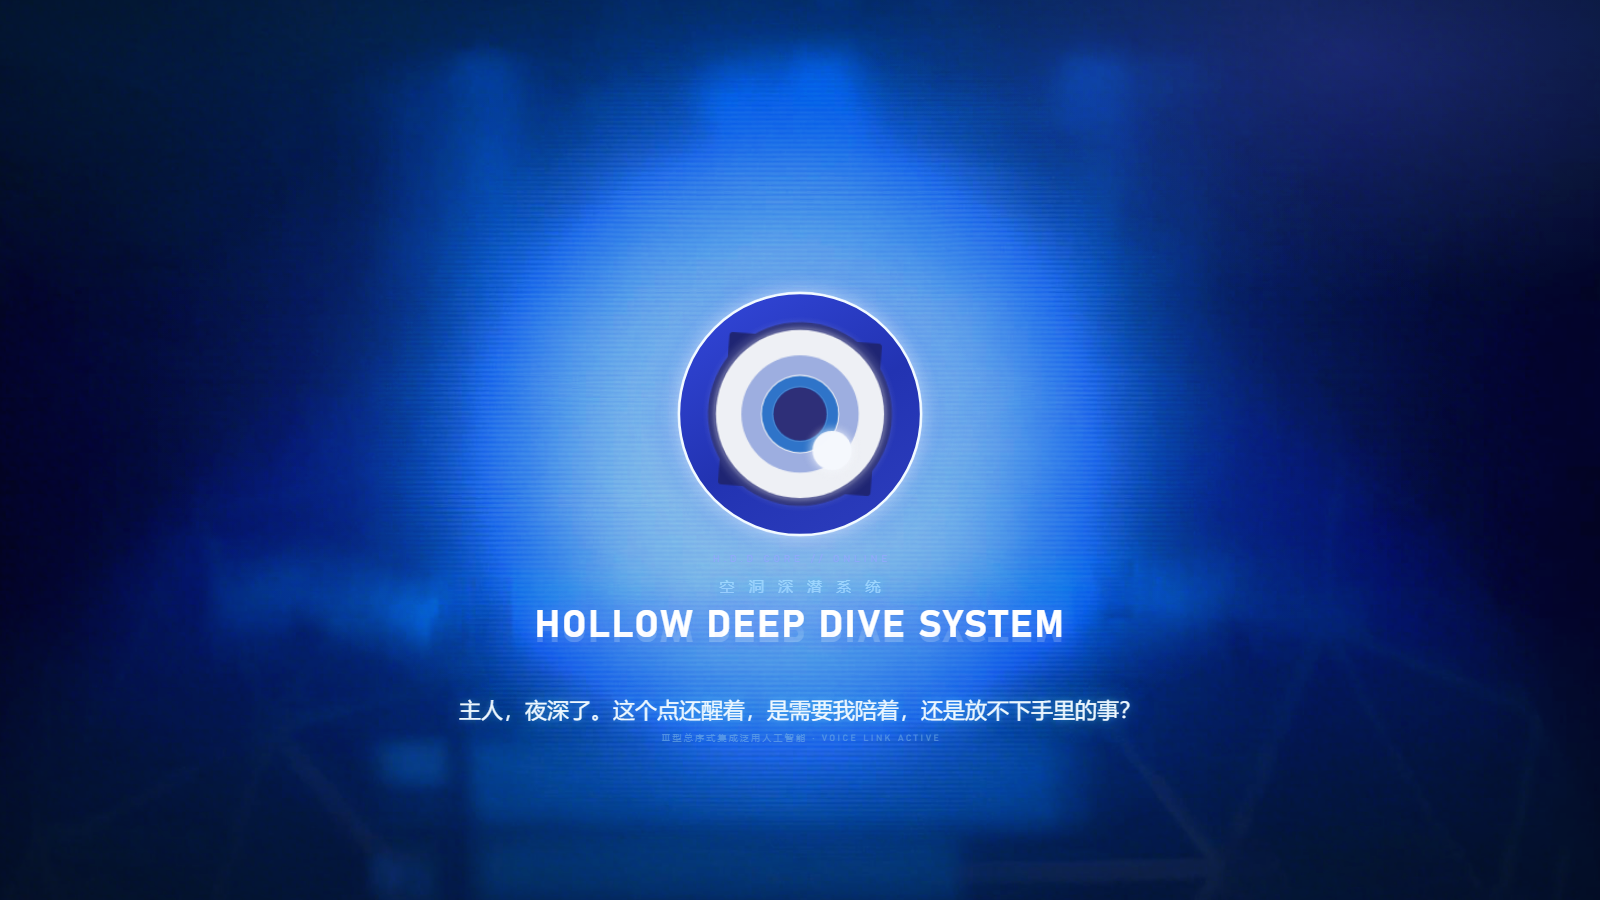
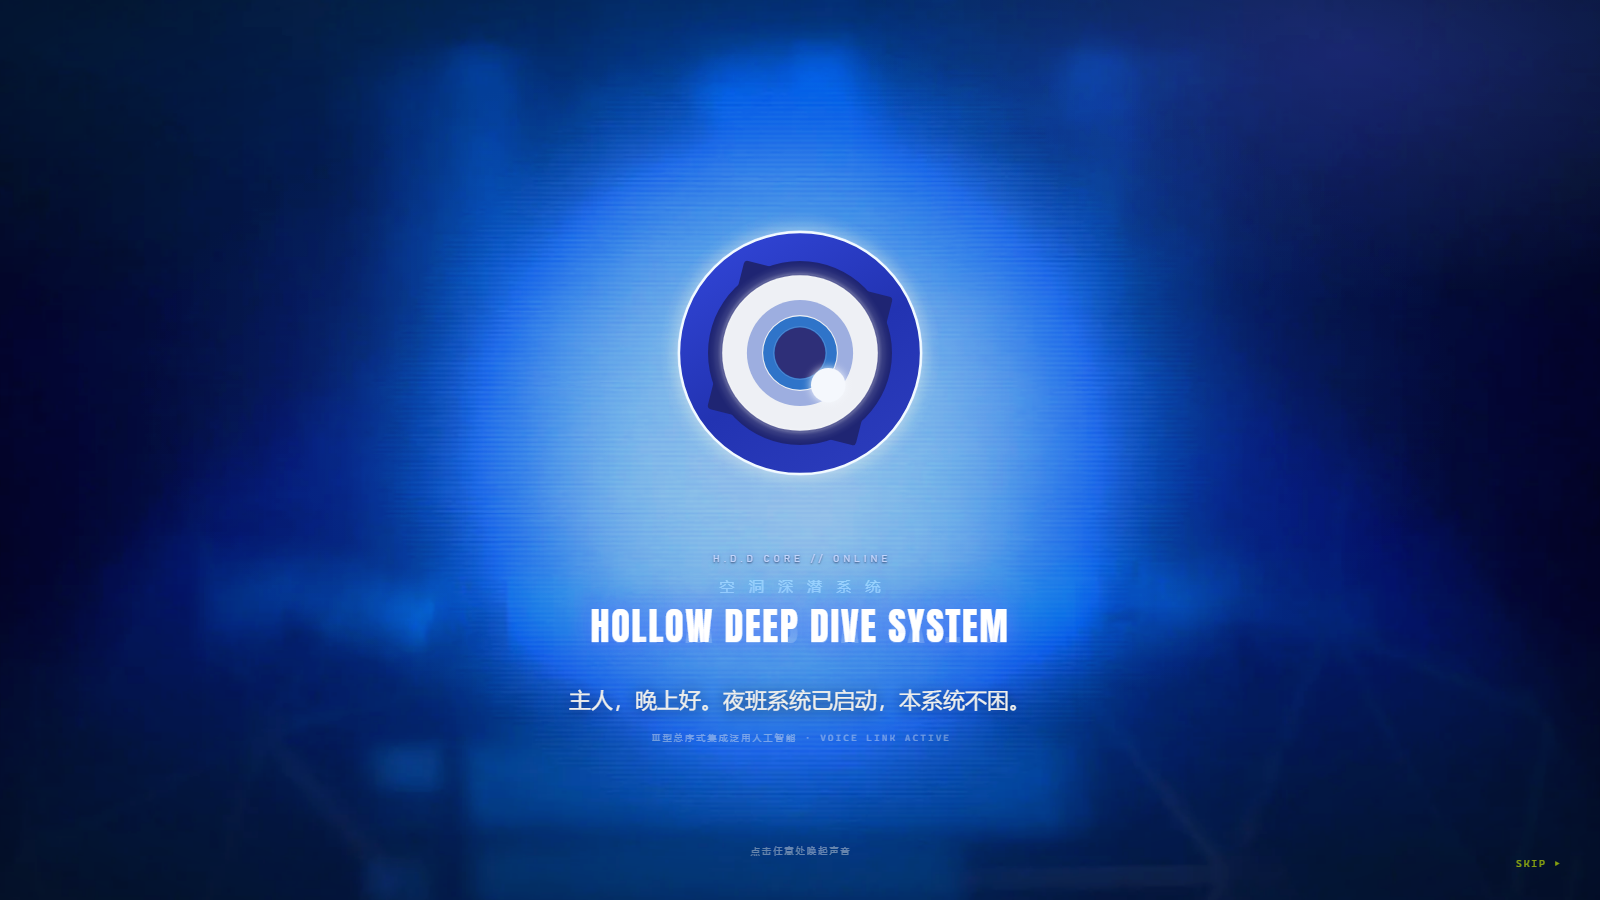
docs: refresh screenshots for current 2.1.1 UI

diff --git a/README.en.md b/README.en.md
@@ -59,7 +59,11 @@ Full third-party license texts live in [licenses/](licenses/); per-item attribut
 | --- | --- |
 | ![Greeting](screenshots/02-greet.png) | ![Eye states](screenshots/03-eye-states.png) |
 
-> Screenshots come from an earlier build; details differ slightly from the current skin. The current Wire-Net Terminal look is specified in [docs/UI-DESIGN.md](docs/UI-DESIGN.md) and [docs/skin/](docs/skin/).
+| Voice & speech | Appearance & boot animation |
+| --- | --- |
+| ![Voice and speech settings](screenshots/04-settings.png) | ![Appearance and boot animation settings](screenshots/05-settings-appearance.png) |
+
+> Screenshots come from v2.1.1 and match the current Wire-Net Terminal skin, voice / appearance settings and boot animation; details may continue to change in later versions. The live look is specified in [docs/UI-DESIGN.md](docs/UI-DESIGN.md) and [docs/skin/](docs/skin/).
 
 ## Features
 

diff --git a/README.md b/README.md
@@ -59,7 +59,11 @@ dsh plugin --profile desktop add @sky_wing_dn/dsh-fairy-zzz
 | --- | --- |
 | ![居中问好](screenshots/02-greet.png) | ![眼徽状态](screenshots/03-eye-states.png) |
 
-> 截图采自早期版本，界面细节与当前皮肤略有出入；当前的绳网终端样式见 [docs/UI-DESIGN.md](docs/UI-DESIGN.md) 与 [docs/skin/](docs/skin/)。
+| 语音与朗读 | 外观与开场动画 |
+| --- | --- |
+| ![语音与朗读设置](screenshots/04-settings.png) | ![外观与开场动画设置](screenshots/05-settings-appearance.png) |
+
+> 截图采自 v2.1.1，对应当前的绳网终端皮肤、语音 / 外观设置页与开机动画；界面细节可能随后续版本继续调整。当前样式规范见 [docs/UI-DESIGN.md](docs/UI-DESIGN.md) 与 [docs/skin/](docs/skin/)。
 
 ## 特性
 
